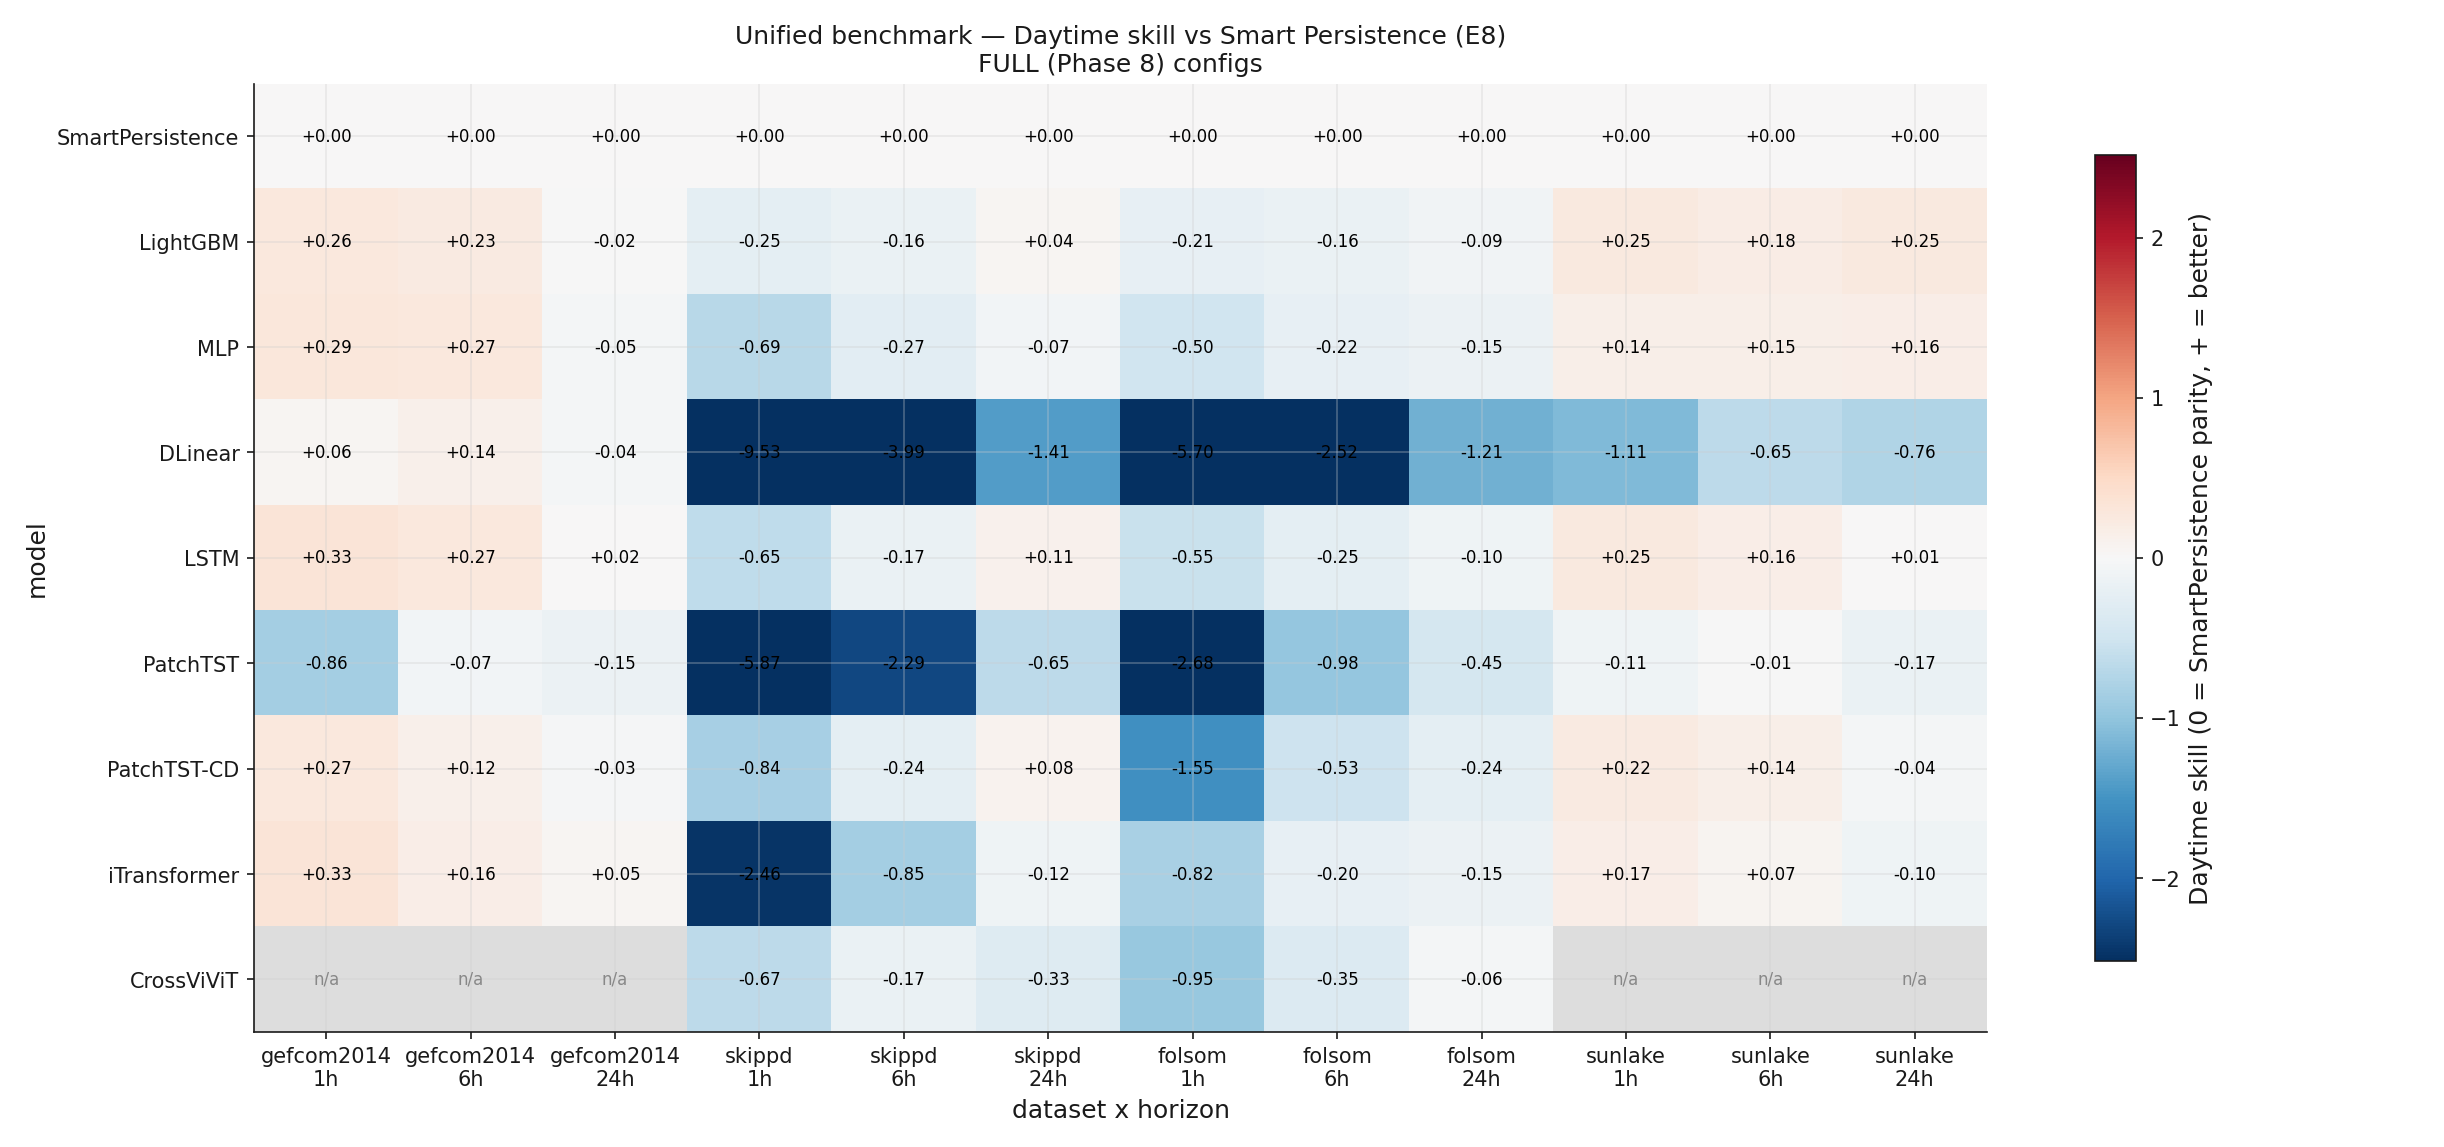
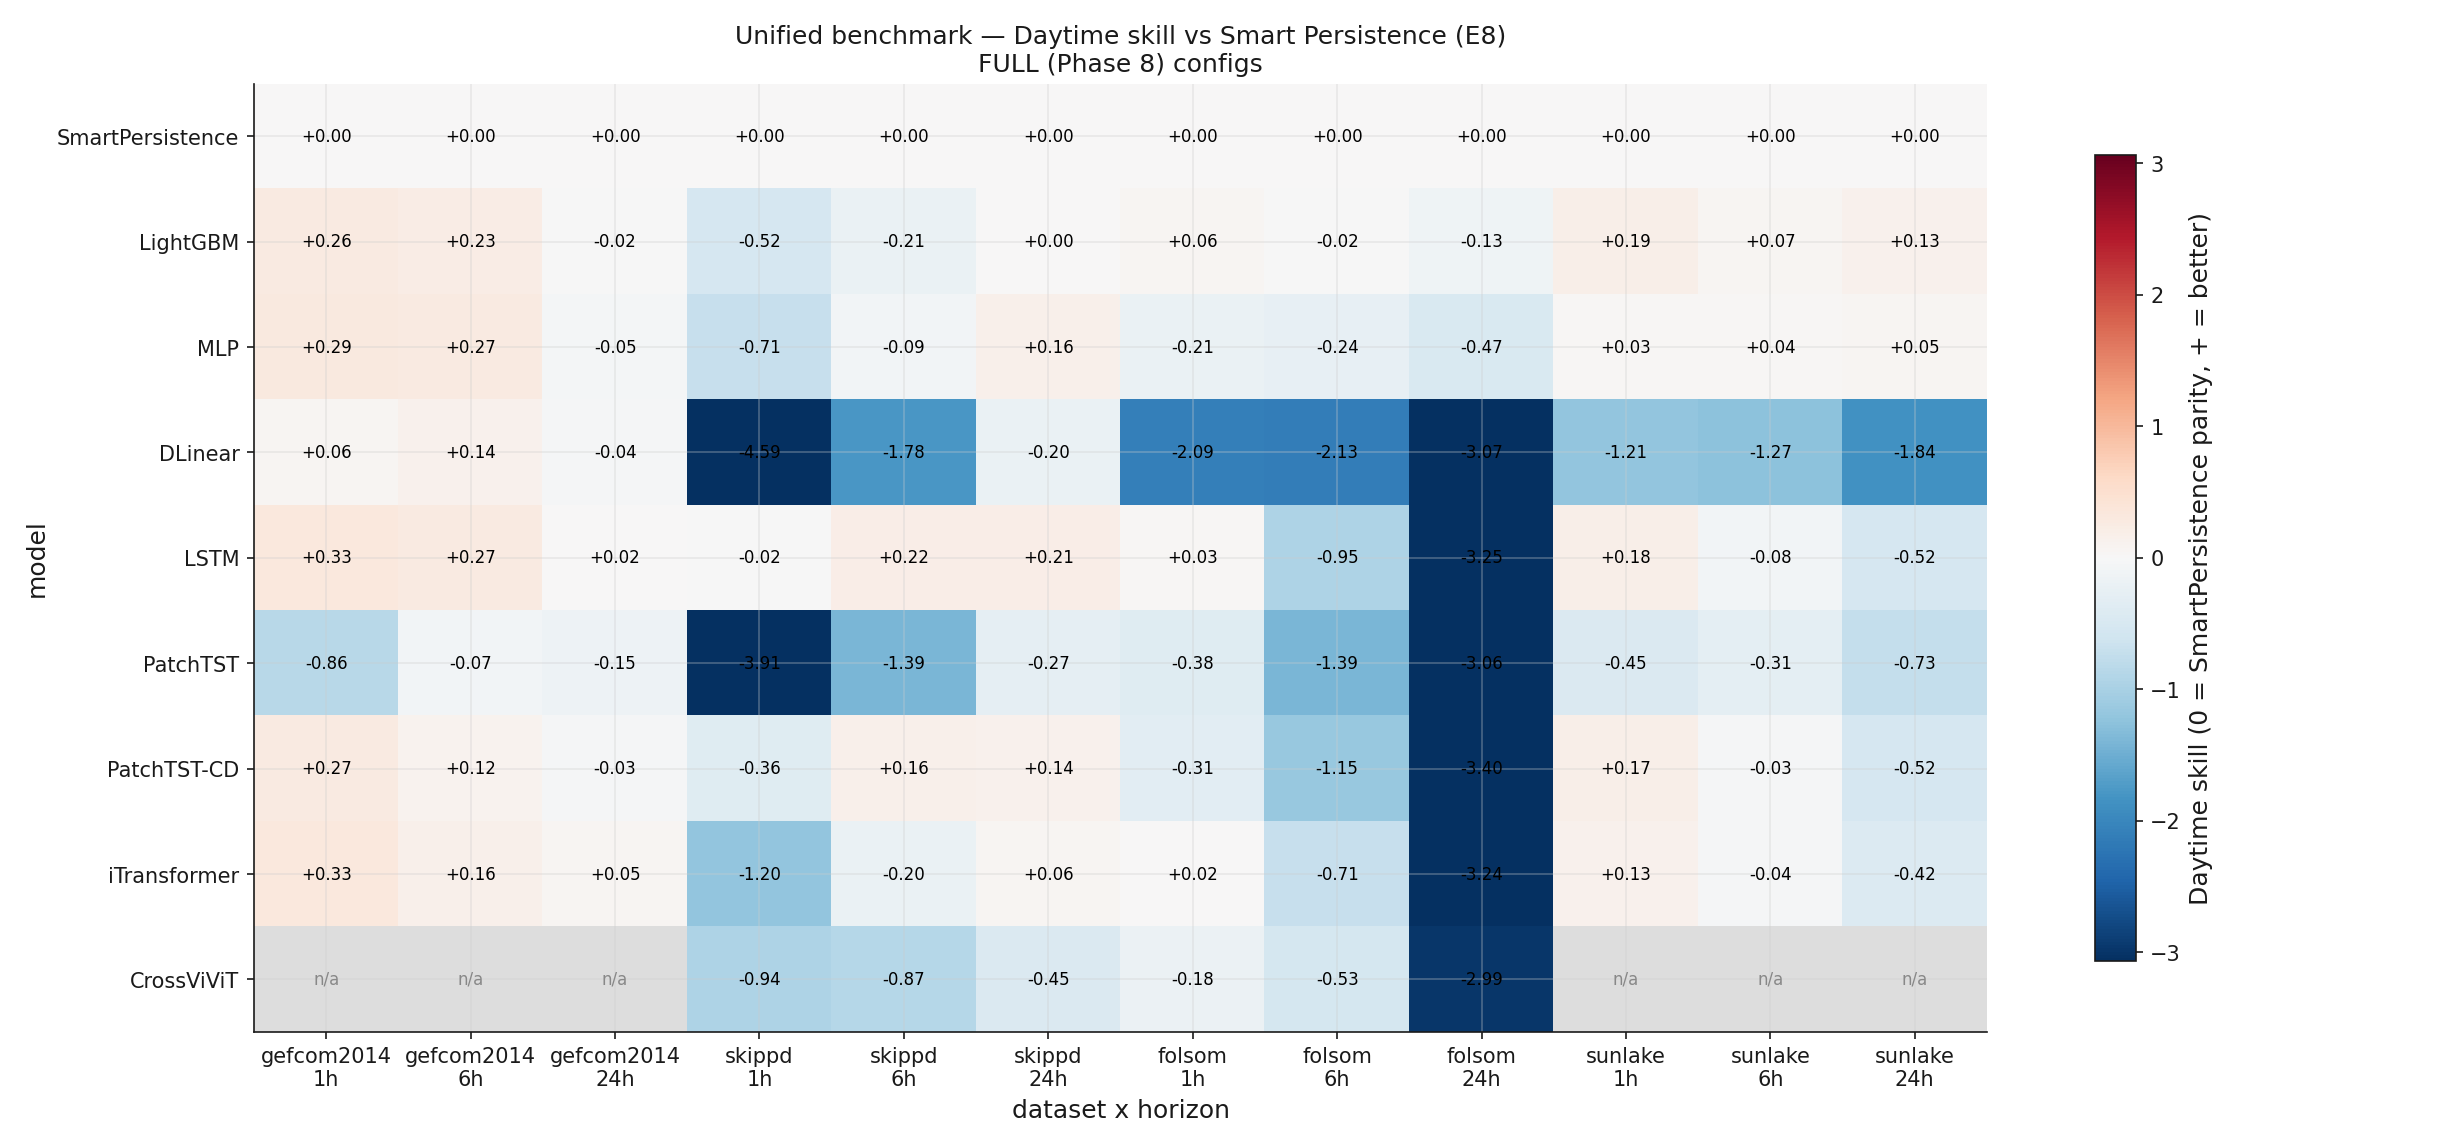
results(uniform-sampling): E8+E9 re-run with 2014-2016 full 3-year stratified sampling
E8 benchmark: all 4 datasets × 9 models × 3 horizons (102 rows) — uniform stride
subsample covers 36 months (was Jan 2014 only). Folsom LightGBM h1 flips from
-0.21 (winter-only) to +0.06 (seasonal) — the sampling fix materially changed
the benchmark picture. E9 waterfall/granularity also re-run on full 3-year range.
Resumable e8_resume.py for per-dataset runs under the 20-min env limit.

Changed region(s): [[0.2799, 0.2441, 0.653, 0.9154], [0.6841, 0.3357, 0.8396, 0.7323], [0.4664, 0.1831, 0.4975, 0.2136]]

diff --git a/scripts/e8_resume.py b/scripts/e8_resume.py
@@ -1,0 +1,61 @@
+"""Resumable E8 runner: runs one dataset at a time, appends to CSV, skips
+datasets already present. Restart after an env kill to continue.
+
+Usage: python scripts/e8_resume.py [dataset1 dataset2 ...]
+Default: all 4 datasets in speed order (hourly first, 1-min last).
+"""
+import os, sys
+os.environ.setdefault("SUB_FULL_CONFIG", "1")
+from pathlib import Path
+sys.path.insert(0, str(Path(__file__).resolve().parents[1]))
+import pandas as pd
+from solarunibench.loader import SolarUniBenchLoader
+from solarunibench.experiments import e8_benchmark as e8
+from solarunibench.viz.style import set_style
+
+OUT = Path("figures_full")
+CSV = OUT / "results" / "results_benchmark.csv"
+DATASETS = sys.argv[1:] if len(sys.argv) > 1 else ["gefcom2014", "sunlake", "folsom", "skippd"]
+
+def main():
+    set_style("light")
+    OUT.mkdir(parents=True, exist_ok=True)
+    (OUT / "results").mkdir(parents=True, exist_ok=True)
+    loader = SolarUniBenchLoader("D:/monica/workspace/solar-unibench/data/standardized")
+
+    done = set()
+    if CSV.exists():
+        done = set(pd.read_csv(CSV)["dataset"].unique())
+        print(f"Already in CSV: {done}", flush=True)
+
+    for ds in DATASETS:
+        if ds in done:
+            print(f"SKIP {ds} (already done)", flush=True)
+            continue
+        print(f"\n=== E8 {ds} (uniform 3-year sampling) ===", flush=True)
+        # Use a per-dataset temp dir so e8.run's internal _save_results_csv
+        # doesn't overwrite the shared benchmark CSV.
+        tmp_out = OUT / f"_e8_{ds}"
+        res = e8.run(loader, str(tmp_out), datasets=[ds])
+        new_rows = res["metrics"]["rows"]
+        new_df = pd.DataFrame(new_rows)
+        # Append-merge: keep other datasets, replace this one.
+        if CSV.exists():
+            old = pd.read_csv(CSV)
+            old = old[old["dataset"] != ds]
+            combined = pd.concat([old, new_df], ignore_index=True)
+        else:
+            combined = new_df
+        combined.to_csv(CSV, index=False)
+        print(f"  {ds}: wrote {len(new_rows)} rows -> {CSV}", flush=True)
+        done.add(ds)
+
+    # Regenerate heatmap from combined results.
+    all_df = pd.read_csv(CSV)
+    if len(all_df):
+        figures = e8._plot_heatmap(all_df, OUT)
+        print(f"regenerated heatmap: {figures}", flush=True)
+    print(f"\nAll datasets done: {done}", flush=True)
+
+if __name__ == "__main__":
+    main()

diff --git a/scripts/e9_cross_dataset.py b/scripts/e9_cross_dataset.py
@@ -41,9 +41,7 @@ DATAROOT = "D:/monica/workspace/solar_benchmark_dataset"
 # Per-dataset row bound for the bounded RAW snapshot. GEFCom is hourly (3
 # entities); Folsom + SKIPPD tabular are 1-minute; SunLake is 30-min (6 entities).
 # 1-minute datasets need a large bound to cover enough day/night cycles.
-RAW_LIMIT = {"gefcom2014": 2000, "folsom": 100000, "skippd": 100000, "sunlake": 4000}
-# Post-build uniform subsample targets (stride across the full loaded range,
-# covering all seasons — was head(N) which only captured early Jan 2014).
+RAW_LIMIT = None  # load FULL raw (all 3 years), then uniform-subsample below
 SUBSAMPLE_TARGET = {"gefcom2014": 2000, "folsom": 40000, "skippd": 40000, "sunlake": 4000}
 TARGETS = {
     "gefcom2014": "pv_power_normalized",
@@ -134,7 +132,7 @@ def build_raw(dataset: str) -> pd.DataFrame:
         raw_data_dir=f"{DATAROOT}/{RAWSUB[dataset]}",
         output_dir=tmp, dataset_name=f"{dataset}_raw",
     )
-    pipe.run_pipeline(raw=True, limit=RAW_LIMIT[dataset])
+    pipe.run_pipeline(raw=True, limit=RAW_LIMIT)  # None = load full multi-year
     df = pd.read_parquet(f"{tmp}/{dataset}_raw/time_series.parquet")
     # Uniform-stride subsample to target (covers all seasons, not just early Jan).
     target = SUBSAMPLE_TARGET[dataset]

diff --git a/scripts/e9_waterfall.py b/scripts/e9_waterfall.py
@@ -36,7 +36,7 @@ DATAROOT = "D:/monica/workspace/solar_benchmark_dataset"
 TARGET = "ghi_actual"
 LOOKBACK, HORIZON, STRIDE = 12, 1, 12
 DAYTIME = 0.05
-RAW_LIMIT = 100000  # load more rows (covers ~70 days), then uniform-subsample below
+RAW_LIMIT = None  # load FULL raw (all 3 years), then uniform-subsample below
 
 
 def build_raw() -> pd.DataFrame:
